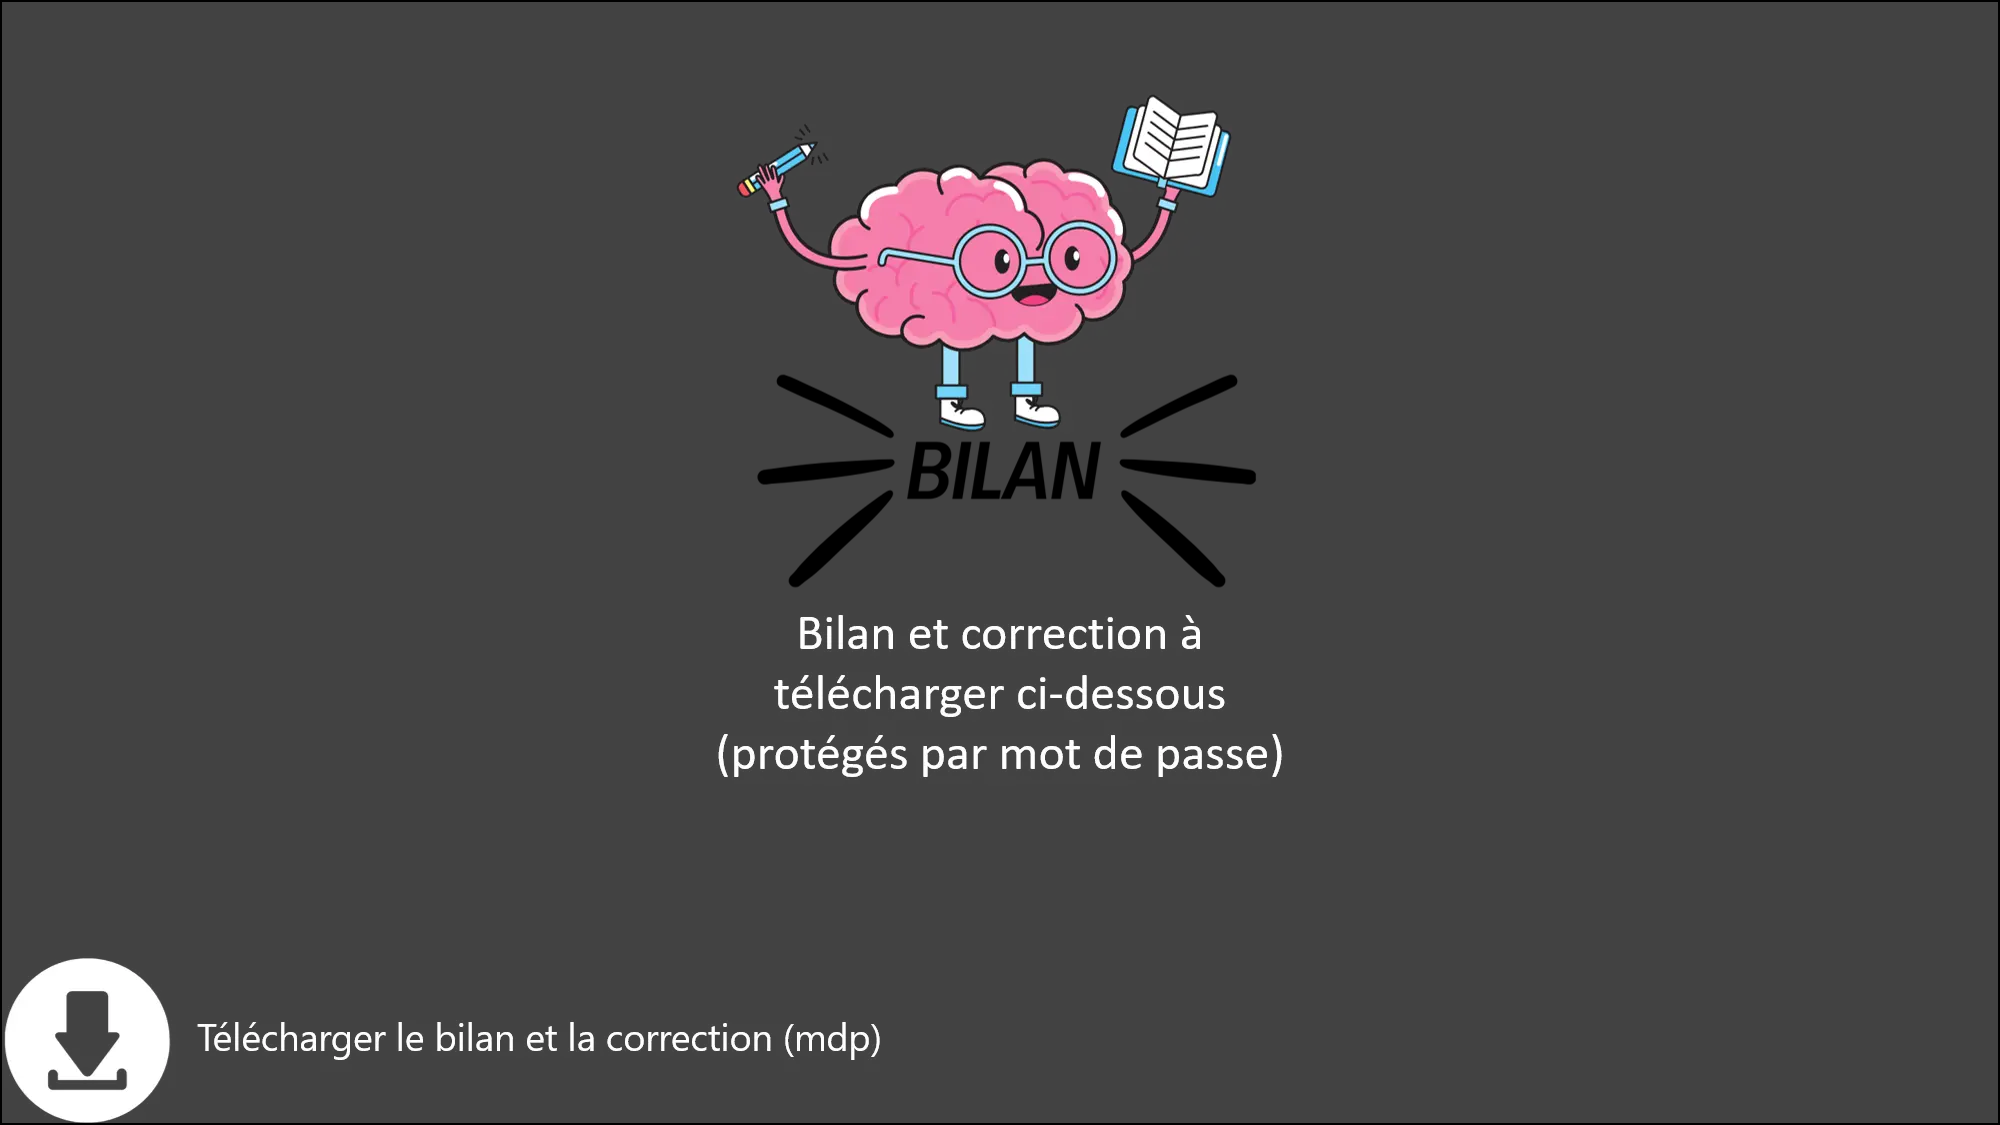
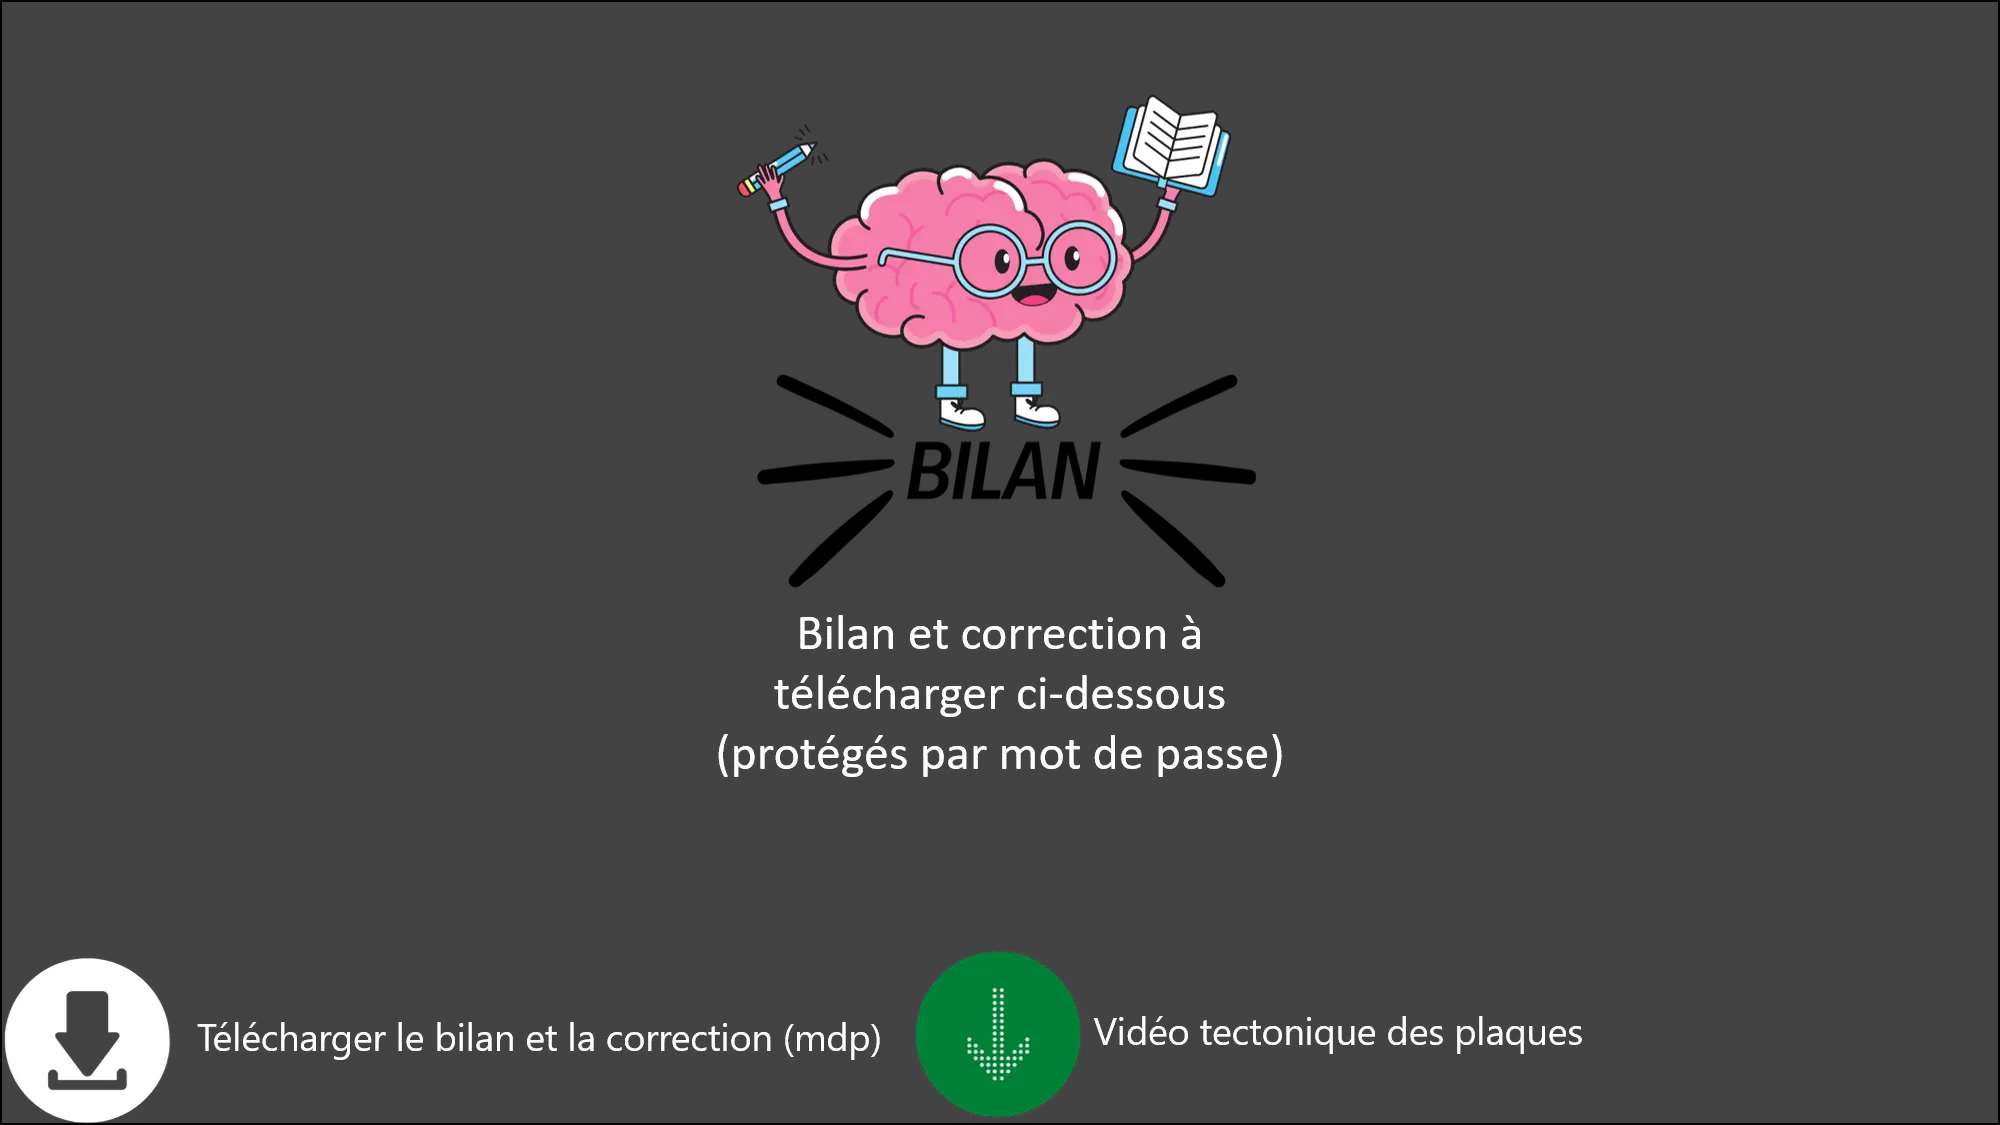
ajouts des liens vidéos cours

Changed region(s): [[0.434, 0.84, 0.806, 0.9956]]

diff --git a/5T1A1.html b/5T1A1.html
@@ -297,6 +297,7 @@ function topFunction() {
 
   <img src="Pic/COLLEGE/5/T1A1/fond5a16.webp" style="width:100%">
   <a href="https://www.youtube.com/watch?v=sjVn9SvR_Vk"><img src="Pic/link.png" height="25px" width="24px" alt="Lien" /><h1 style="display: inline">Vidéo Futura</h1></img></a>
+  <a href="https://youtu.be/dy_C4NUMwUM"><img src="Pic/link.png" height="25px" width="24px" alt="Lien" /><h1 style="display: inline">L'échelle de l'univers</h1></img></a>
   <a href="Cours/College/5/T1A1/5e_T1_A1_C.rar" download><img src="Pic/link.png" height="25px" width="24px" alt="Lien" /><h1 style="display: inline ; animation: color-change 8s infinite">Corrigé activité</h1></img></a>
 
 </div>
@@ -316,7 +317,7 @@ function topFunction() {
     <span class="dot" onclick="currentSlide(4)"></span>
       <span class="dot" onclick="currentSlide(5)"></span>
         <span class="dot" onclick="currentSlide(6)"></span>
-      
+
 
 </div>
 

diff --git a/3T1A1.html b/3T1A1.html
@@ -298,6 +298,7 @@ function topFunction() {
 
   <img src="Pic/COLLEGE/3/T1A1/fond3t1a6.webp" style="width:100%">
   <a href="Cours/College/3/T1A1/bilan&correction.rar" download><img src="Pic/link.png" height="25px" width="24px" alt="Lien" /><h1 style="display: inline ; animation: color-change 8s infinite">Bilan et correction</h1></img></a>
+  <a href="https://youtu.be/nnT2obEi0Ec"><img src="Pic/link.png" height="25px" width="24px" alt="Lien" /><h1 style="display: inline">40 sec de tectonique</h1></img></a>
 
 </div>
 
